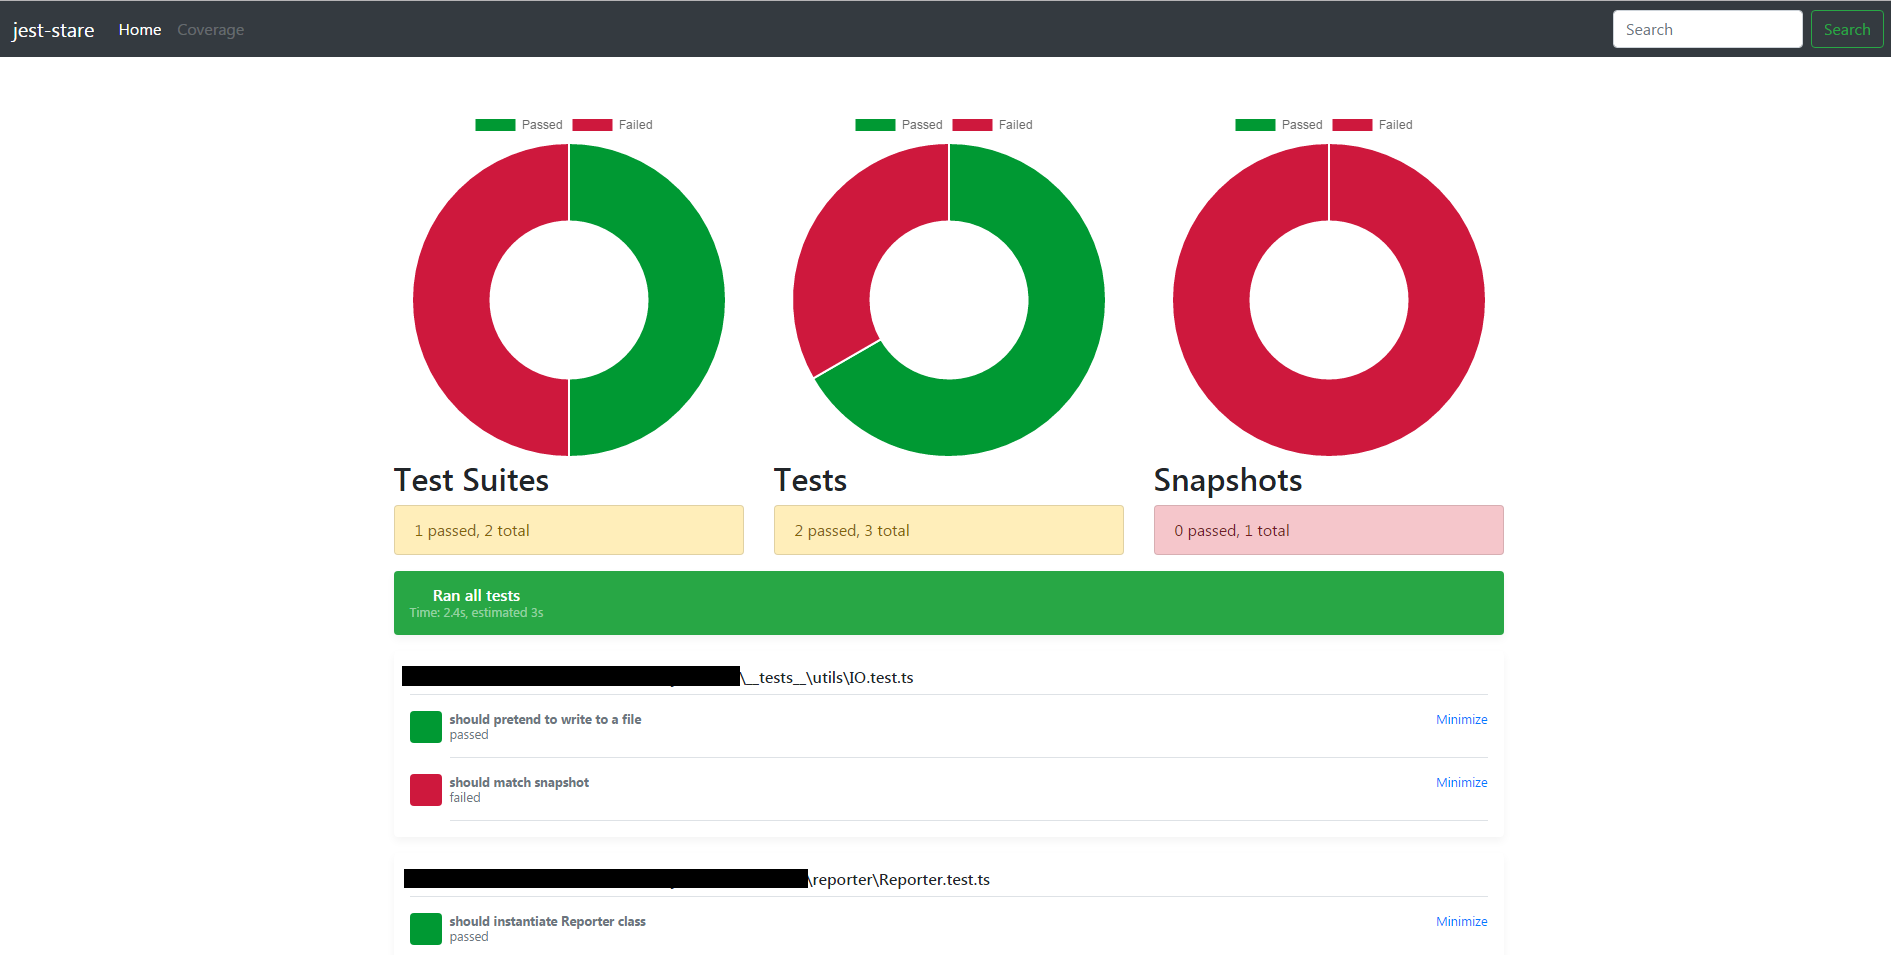
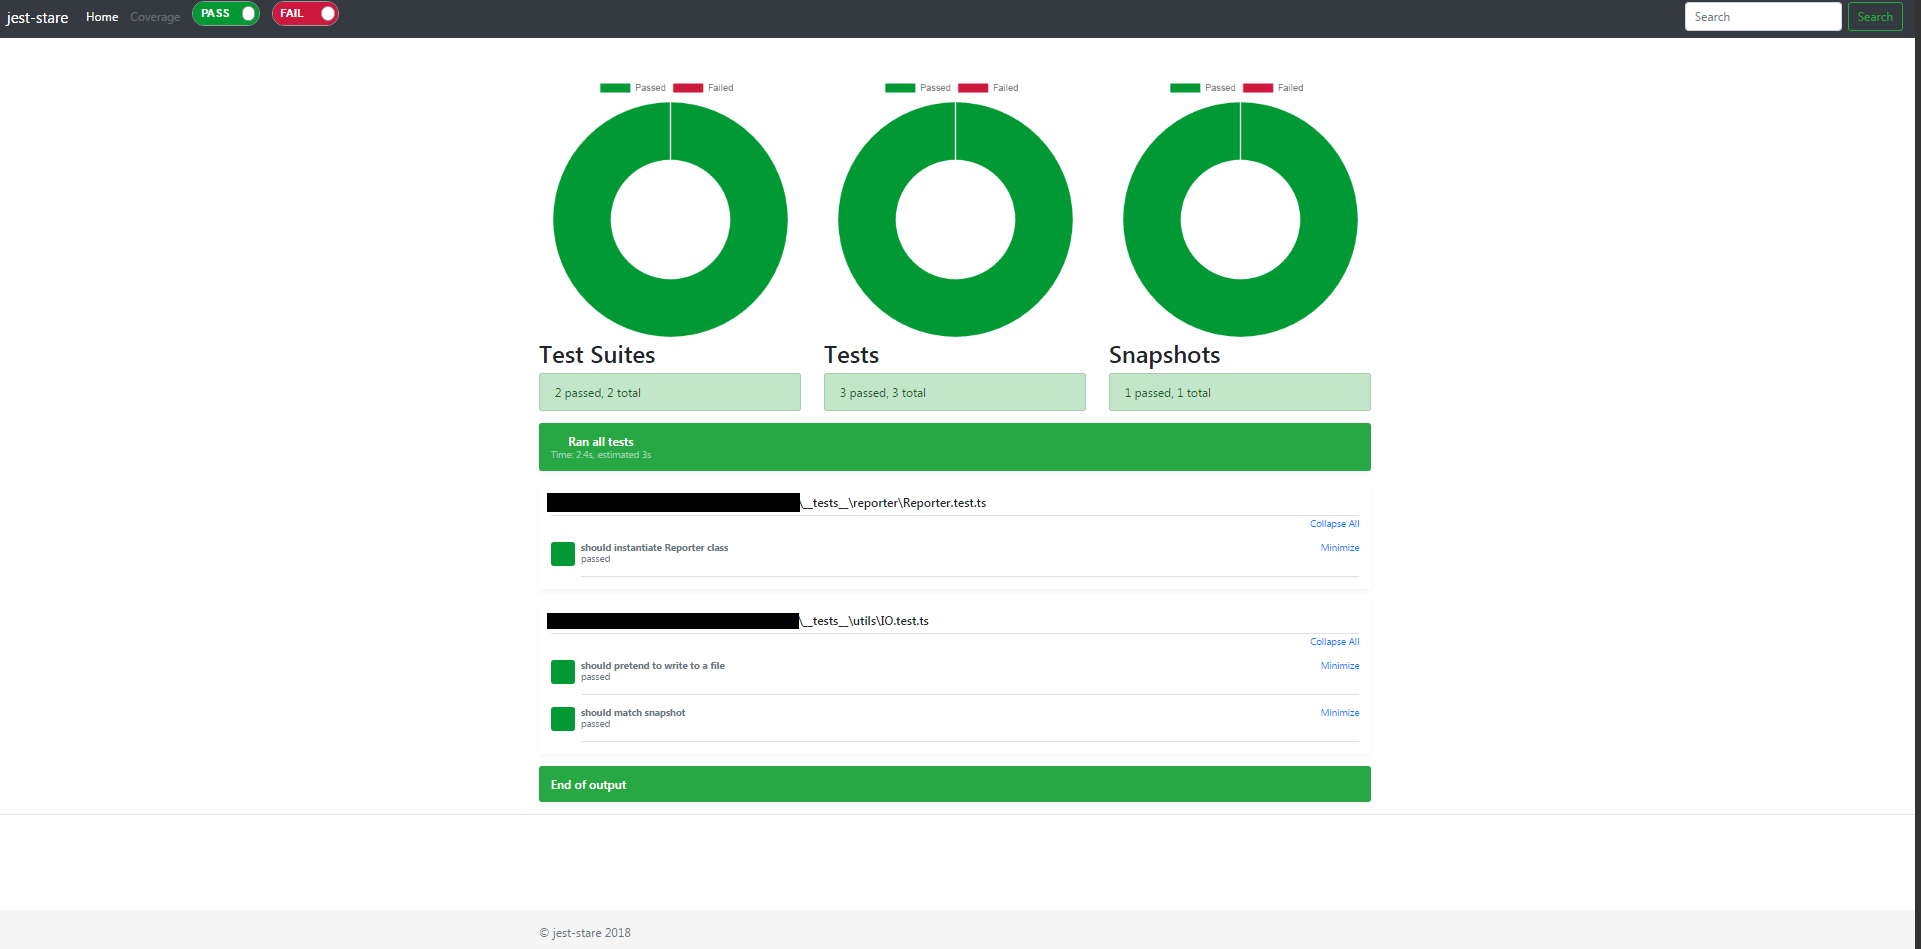
add basic filter

diff --git a/src/render/Render.ts b/src/render/Render.ts
@@ -31,6 +31,22 @@ export class Render {
     private static readonly FAIL = "#" + Render.FAIL_RAW;
 
     /**
+     * Passed test class
+     * @private
+     * @static
+     * @memberof Render
+     */
+    private static readonly PASSED_TEST = "passed-test";
+
+    /**
+     * Failed test class
+     * @private
+     * @static
+     * @memberof Render
+     */
+    private static readonly FAILED_TEST = "failed-test";
+
+    /**
      * Creates an instance of Render.
      * @param {IResultsProcessorInput} mResults - parsed test results from DOM
      * @memberof Render
@@ -47,6 +63,22 @@ export class Render {
         this.generateChartsFromTagIdPrefix("tests");
         this.generateChartsFromTagIdPrefix("snapshots");
 
+        $("#lab-passoff-switch").change(() => {
+            if ($("#lab-passoff-switch").is(":checked")) {
+                $("." + Render.PASSED_TEST).show();
+            } else {
+                $("." + Render.PASSED_TEST).hide();
+            }
+        });
+
+        $("#lab-failoff-switch").change(() => {
+            if ($("#lab-failoff-switch").is(":checked")) {
+                $("." + Render.FAILED_TEST).show();
+            } else {
+                $("." + Render.FAILED_TEST).hide();
+            }
+        });
+
         // build tables
         const tableHtml = this.buildTables();
 
@@ -59,7 +91,7 @@ export class Render {
     /**
      * Build table info for specific tests
      * @private
-     * @returns {HTMLElement[]} - pupulated html elements
+     * @returns {HTMLElement[]} - populated html elements
      * @memberof Render
      */
     private buildTables(): HTMLElement[] {
@@ -94,10 +126,6 @@ export class Render {
 
         div.appendChild(h6);
 
-        //     <small class="d-block text-right mt-3">
-        //         <a href="#">All suggestions</a>
-        //     </small>
-
         const small = document.createElement("small") as HTMLElement;
         small.classList.add("d-block", "text-right", "mt3");
 
@@ -130,22 +158,12 @@ export class Render {
         //             <span class="d-block">@username</span>
         //         </div>
         //     </div>
-
-        const h6 = element.firstChild;
-
-        const firstDiv = document.createElement("div") as HTMLDivElement;
-        firstDiv.classList.add("media", "text-muted", "pt-3");
-
-        element.appendChild(firstDiv);
-
-        const img = document.createElement("img") as HTMLImageElement;
-        img.classList.add("mr-2", "rounded");
-        img.alt = "";
-
         let color = Render.PASS_RAW;
+        let testStatusClass = Render.PASSED_TEST;
         switch (innerTestResult.status) {
             case "failed":
                 color = Render.FAIL_RAW;
+                testStatusClass = Render.FAILED_TEST;
                 break;
             case "pending":
                 break;
@@ -154,6 +172,18 @@ export class Render {
             default:
                 break;
         }
+
+        const h6 = element.firstChild;
+
+        const firstDiv = document.createElement("div") as HTMLDivElement;
+        firstDiv.classList.add("media", "text-muted", "pt-3", testStatusClass);
+
+        element.appendChild(firstDiv);
+
+        const img = document.createElement("img") as HTMLImageElement;
+        img.classList.add("mr-2", "rounded");
+        img.alt = "";
+
         img.setAttribute("data-src", "holder.js/32x32?theme=thumb&bg=" + color + "&fg=" + color + "&size=1");
 
         firstDiv.appendChild(img);

diff --git a/__tests__/utils/IO.test.ts b/__tests__/utils/IO.test.ts
@@ -28,6 +28,7 @@ describe("IO tests", () => {
         const data = {
             name: "someone",
             password: "secret",
+            new: "secret",
         };
         expect(data).toMatchSnapshot();
     });
